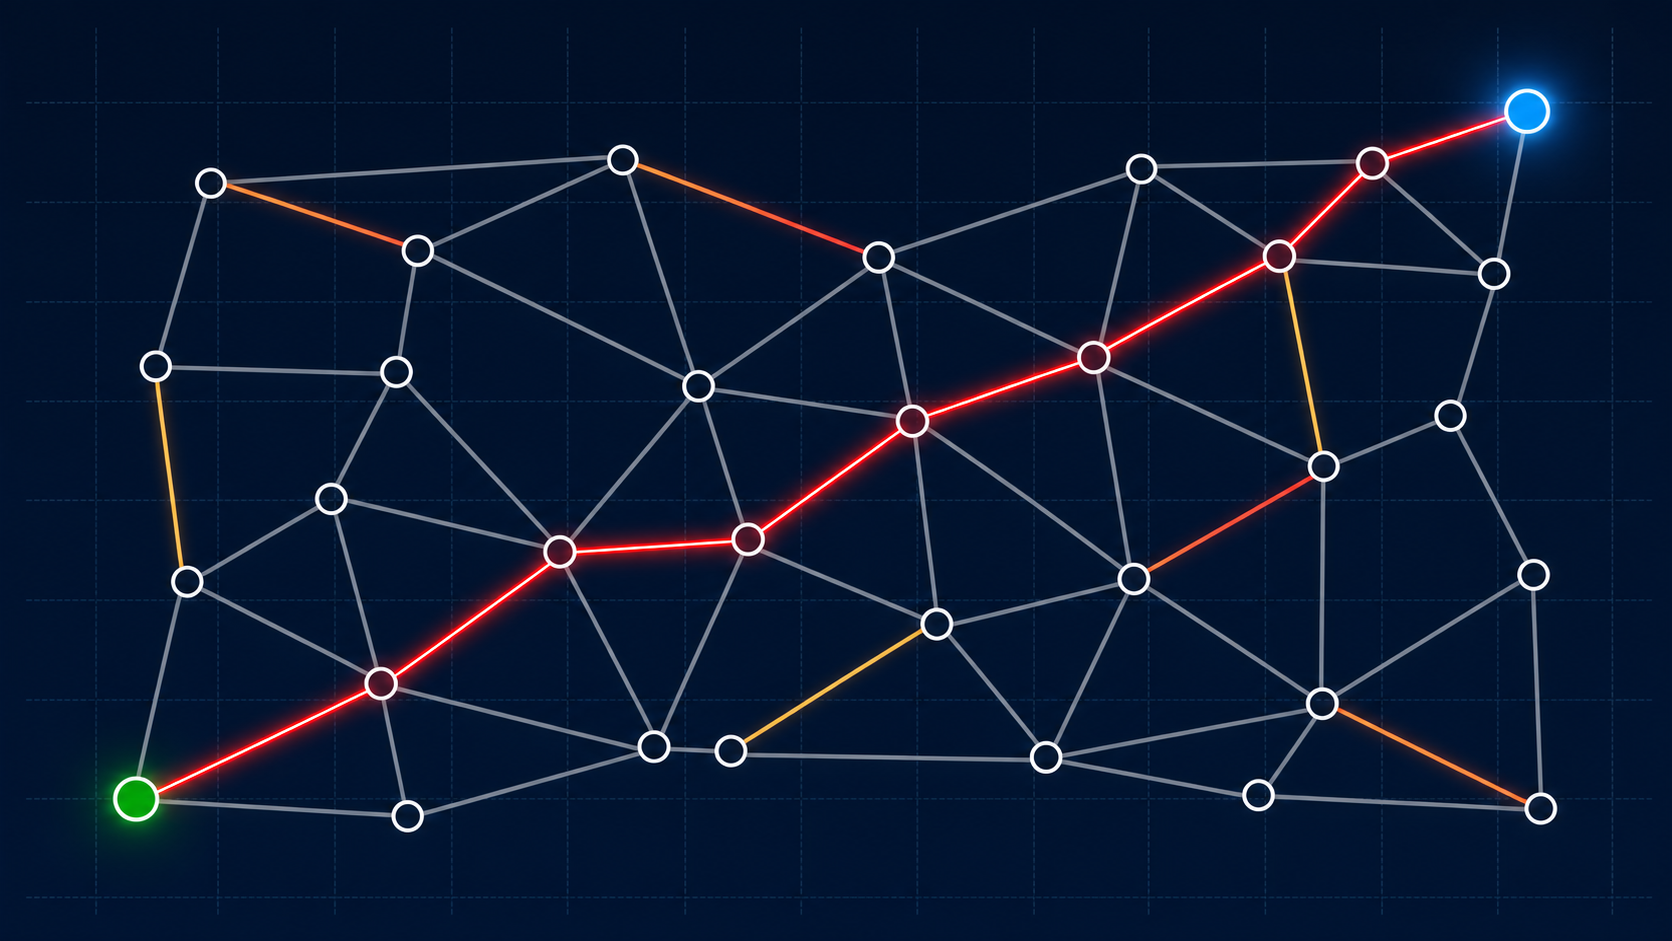
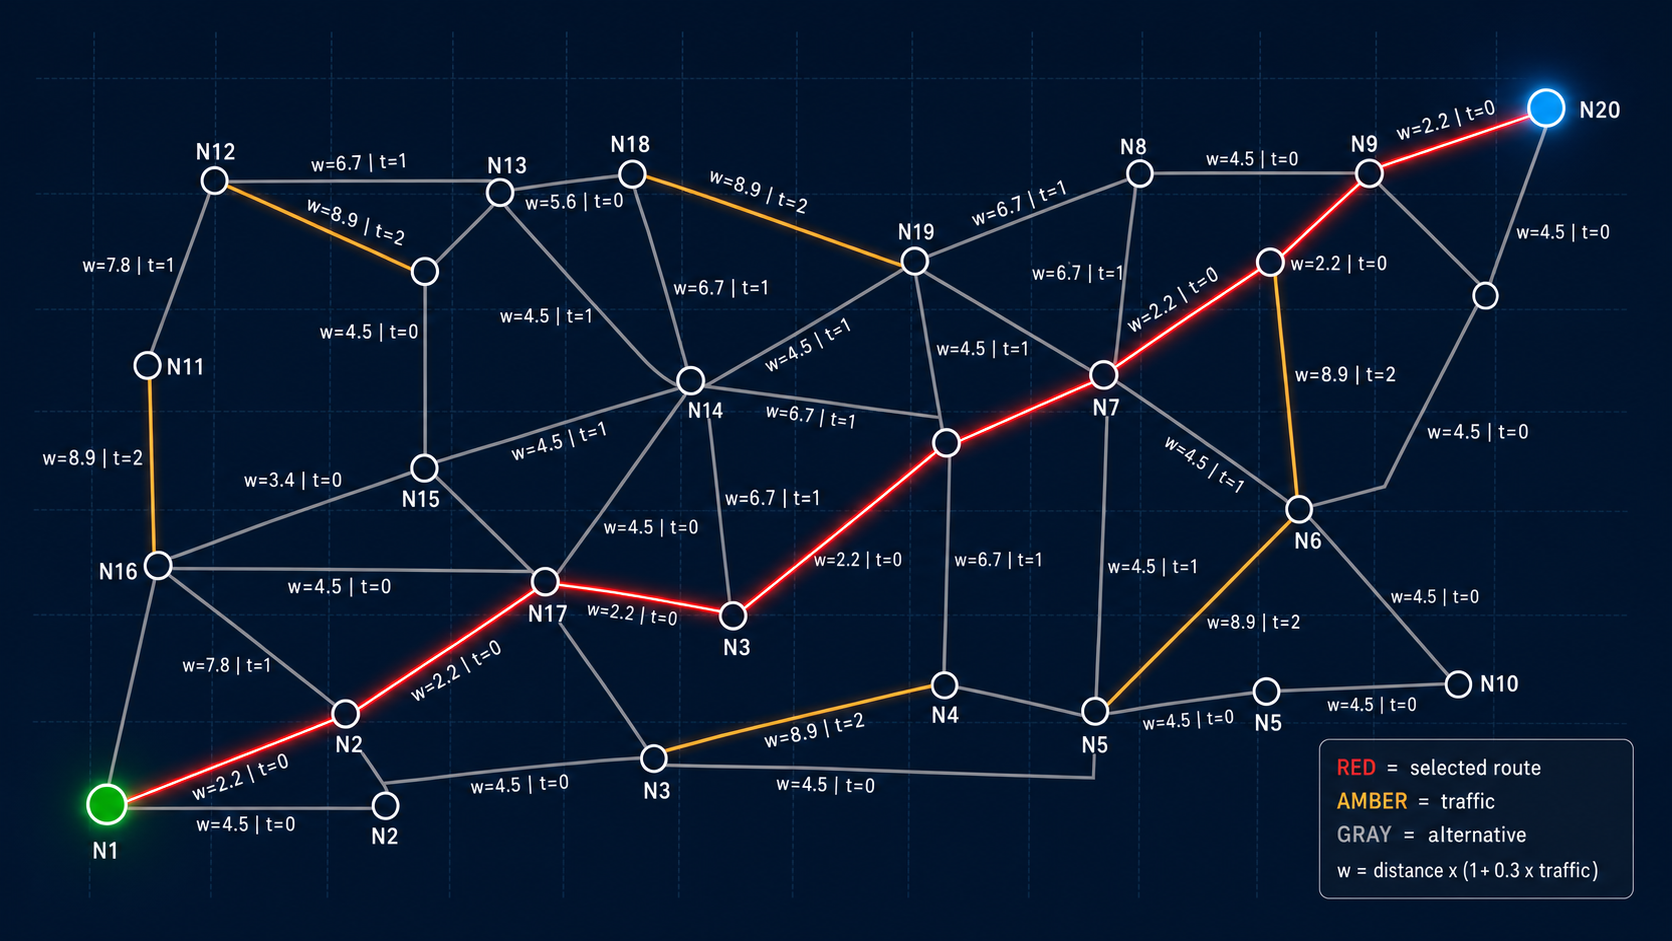
docs: improve routing visualization with weights and traffic

Changed region(s): [[0.0311, 0.0616, 0.9641, 0.9554], [0.7153, 0.2157, 0.7464, 0.2465]]

diff --git a/README.md b/README.md
@@ -4,7 +4,7 @@
 
 ![Traffic-aware graph routing](docs/routing-hero.png)
 
-> The image is generated concept art for the documentation. The executable project renders its graph and selected route with Matplotlib.
+> The image is a generated scientific visualization of the project's routing model. Its edge labels are illustrative; the executable project renders the actual input graph and selected route with Matplotlib.
 
 This project models a customizable map as a weighted, bidirectional graph. Given a start node, destination node, and request time, it calculates a route with Dijkstra's algorithm, increases the cost of congested links, records the selected route's time window, and visualizes the result.
 